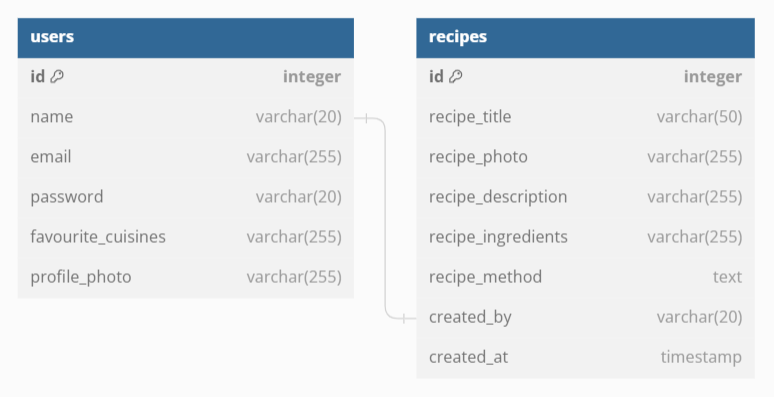
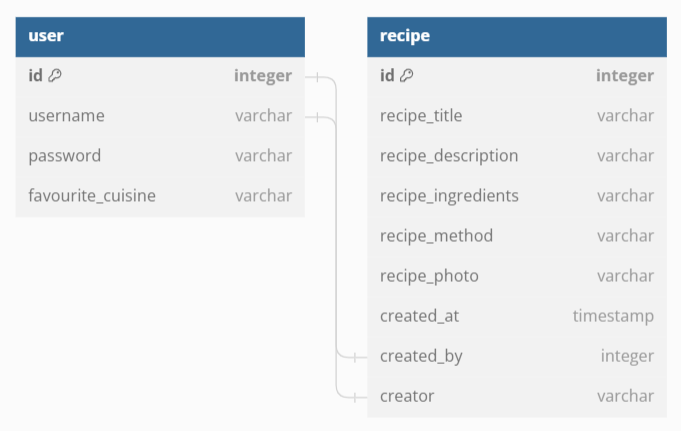
admin privileges updated, README updated with screenshots of site features

diff --git a/foodiefix/templates/recipe.html b/foodiefix/templates/recipe.html
@@ -20,7 +20,7 @@
     </div>
 </div>
 
-{% if recipe.created_by == current_user.id %}
+{% if recipe.created_by == current_user.id or current_user.username == 'admin' %}
 <div class="row">
     <div class="col s12 m6 l6">
         <div class="card-action">

diff --git a/foodiefix/routes.py b/foodiefix/routes.py
@@ -30,7 +30,7 @@ def register():
         # log the new user in
         login_user(user)
         flash("Registration Successful!")
-        return redirect(url_for("my_recipes", username=session["user"]))
+        return redirect(url_for("my_recipes"))
 
     return render_template("register.html")
 
@@ -44,7 +44,7 @@ def login():
         if existing_user and check_password_hash(existing_user.password, request.form.get("password")):
             login_user(existing_user)
             flash("Login Successful!")
-            return redirect(url_for("my_recipes", username=session["user"]))
+            return redirect(url_for("my_recipes"))
         else:
             flash("Incorrect Username and/or Password")
             return redirect(url_for("login"))
@@ -78,35 +78,37 @@ def account():
 
 @app.route("/add_recipe", methods=["GET", "POST"])
 def add_recipe():
-    if "user" not in session:
+    if current_user.is_authenticated:
+
+        if request.method == "POST":
+            recipe = Recipe(
+                recipe_title=request.form.get("recipe_title"),
+                recipe_description=request.form.get("recipe_description"),
+                recipe_ingredients=request.form.get("recipe_ingredients"),
+                recipe_method=request.form.get("recipe_method"),
+                recipe_photo=request.form.get("recipe_photo"),
+                created_at=request.form.get("created_at"),
+                created_by=current_user.id
+            )
+
+            def is_valid_url(url):
+                parsed_url = urlparse(url)
+                return bool(parsed_url.scheme and parsed_url.netloc)
+
+            url = recipe.recipe_photo
+            print("Valid URL!" if is_valid_url(url) else "Invalid URL!")
+            if is_valid_url(url) or url == "":
+                db.session.add(recipe)
+                db.session.commit()
+            else:
+                flash("Invalid photo URL!")
+                return redirect(url_for("my_recipes"))
+            return redirect(url_for("my_recipes"))
+        return render_template("add_recipe.html")
+    
+    else:
         flash("You must be logged in to add recipes")
         return redirect(url_for("home"))
-
-    if request.method == "POST":
-        recipe = Recipe(
-            recipe_title=request.form.get("recipe_title"),
-            recipe_description=request.form.get("recipe_description"),
-            recipe_ingredients=request.form.get("recipe_ingredients"),
-            recipe_method=request.form.get("recipe_method"),
-            recipe_photo=request.form.get("recipe_photo"),
-            created_at=request.form.get("created_at"),
-            created_by=current_user.id
-        )
-
-        def is_valid_url(url):
-            parsed_url = urlparse(url)
-            return bool(parsed_url.scheme and parsed_url.netloc)
-
-        url = recipe.recipe_photo
-        print("Valid URL!" if is_valid_url(url) else "Invalid URL!")
-        if is_valid_url(url) or url == "":
-            db.session.add(recipe)
-            db.session.commit()
-        else:
-            flash("Invalid photo URL!")
-            return redirect(url_for("my_recipes"))
-        return redirect(url_for("my_recipes"))
-    return render_template("add_recipe.html")
 
 
 @app.route("/view_recipe/<int:recipe_id>")
@@ -118,7 +120,7 @@ def view_recipe(recipe_id):
 @app.route("/edit_recipe/<int:recipe_id>", methods=["GET", "POST"])
 def edit_recipe(recipe_id):
     recipe = Recipe.query.get_or_404(recipe_id)
-    if recipe.created_by == current_user.id:
+    if recipe.created_by == current_user.id or current_user.username == 'admin':
         if request.method == "POST":
             recipe.recipe_title = request.form.get("recipe_title")
             recipe.recipe_description = request.form.get("recipe_description")
@@ -151,7 +153,7 @@ def edit_recipe(recipe_id):
 @app.route("/delete_recipe/<int:recipe_id>")
 def delete_recipe(recipe_id):
     recipe = Recipe.query.get_or_404(recipe_id)
-    if recipe.created_by == current_user.id:
+    if recipe.created_by == current_user.id or current_user.username == 'admin':
         db.session.delete(recipe)
         db.session.commit()
         return redirect(url_for("my_recipes"))

diff --git a/README.md b/README.md
@@ -8,8 +8,7 @@ A back end web application that allows users to browse a directory of recipes as
 
 Still to do:
 - Mustard colour is not currently used - Should this be implemented?
-
----
+- Better explanation on forms (tell user to add qty for ingredients and number steps in their method)
 
 ## Table of Contents
 1. [Project Overview](#project-overview)
@@ -40,12 +39,8 @@ Still to do:
     * [Future Improvements](#)
 11. [Credits & Acknowledgements](#credits--acknowledgements)
 
----
-
 ## Project Overview
 Foodie Fix is a back end web application intended to help users find cooking inspiration and add their own recipes to a digital cookbook as well as allow other users to view their recipes. The application consits of four main pages: Home, My Recipes, Recipe and Account. The Home page is a recipe directory showing all recipes added to the application, if a user is not logged in they can only view the directory and do not have access to view individual recipe details, however, if a user is logged in they can view the recipe details. The My Recipes page is individual to each user showing them their profile and the recipes they have added to the application. The Recipe pages are where users can read and follow along with a recipe as well as edit or delete a recipe if they are the creator. The Account page is where users can view, edit and delete their account details.
-
----
 
 ## User Experience
 
@@ -189,17 +184,15 @@ Here is a list of aspirational features that would be nice to include in the app
 - Allow other users to navigate to a creators profile.
 - A site specific 404 page to keep the users on the site even in the event of an error.
 
----
-
 ## Database Planning
 
 SQL will be used in this project to create a relational database system containing the details needed for the application. One of the drawbacks of SQL is that once a database has been created and the fields have been filled with data, it is quite frustrating to edit or add new fields. Therefore, before creating any database functionality, the tables that would be needed for this project were planned out to hopefully prevent a frustrating and time-consuming update later on in the project.
 
-Below is a visualisation of the tables needed for the minimum viable application, this consists of a user table where users information from registration will be stored, and a recipes table where all the information relating to recipes will be stored. Each table has a primary key of id and the foreign key between the two tables is the user.name and recipes.created_by.
+Below is a visualisation of the tables needed for the minimum viable application, this consists of a user table where users information from registration will be stored, and a recipe table where all the information relating to recipes will be stored. Each table has a primary key of id and the foreign keys between the two tables is the user.id which is added to the recipe.created_by and the user.username which is added to the recipe.creator.
 
 ![A relational user table and recipes table](foodiefix/static/img/readme_imgs/db_plan_1.png)
 
-If throughout the project there is time to include any of the aspirational features mentioned in [Hi-Fi Wireframes](#hi-fi-wireframes), this is the visualisation showing the tables that will be needed. The recipes table has now got cuisine and meal fields so the database can be filtered based on those fields, and the reviews table has been added. All three tables have their own primary key of id, the foreign key between users and recipes has remained the same however the user.name is also the foreign key used in the reviews table and to link the recipes and reviews table, the recipe_id becomes the foreign key.
+If throughout the project there is time to include any of the aspirational features mentioned in [Hi-Fi Wireframes](#hi-fi-wireframes), this is the visualisation showing the tables that will be needed. The recipe table has now got cuisine and meal fields so the database can be filtered based on those fields, and the review table has been added. All three tables have their own primary key of id, the foreign keys between user and recipe table has remained the same however the user.name is also the foreign key used in the review table and to link the recipe and review tables, the recipe.id becomes the foreign key.
 
 ![A relational user table, recipes table and reviews table](foodiefix/static/img/readme_imgs/db_plan_2.png)
 
@@ -216,8 +209,6 @@ If throughout the project there is time to include any of the aspirational featu
 ### Version Control
 During the development of the application, GitHub was used to manage versions of each file. Commits were made often and consisted of one feature implementation or edit at a time so it would be easier to roll back to a previous version if required. Compared to milestone projects one and two there were even fewer commits due to a lot of the HTML and CSS being boilerplate code from previous personal projects as well as walkthrough projects from the Code Insitute course content. Similar to milestone project two, I was more diligant with the commits being made since Python was also a steep learning curve, meaning I could rollback a feature that wasn't working without it impacting any other features. Throughout the development of the project, I had to roll back my code once whilst trying to get Flask-Login user authetnication working as this was a feature that wasn't covered in the course content, therefore I was relying on external resources meaning some elements of code were missed whilst I was learning this new feature. In total, there were ... commits for this project. Details of the commits can be found here:
 
----
-
 ## Site Development & Features
 
 ### External Links Used Across Site
@@ -229,24 +220,52 @@ Three Google fonts were used throughout the site: Marvel, Nunito and Carme. Deta
 
 ### Base.html
 
+![Alt](foodiefix/static/img/readme_imgs/navbar_large.png)
+
+![Alt](foodiefix/static/img/readme_imgs/footer_large.png)
+
 ### Home Page
+
+![Alt](foodiefix/static/img/readme_imgs/home_large_not_authenticated.png)
+
+![Alt](foodiefix/static/img/readme_imgs/home_large_authenticated.png)
 
 ### Login & Register
 
+![Alt](foodiefix/static/img/readme_imgs/login_large.png)
+
+![Alt](foodiefix/static/img/readme_imgs/register_large.png)
+
 ### My Recipes Page
 
+![Alt](foodiefix/static/img/readme_imgs/my_recipes_large.png)
+
 ### Add & Edit Recipe
+
+![Alt](foodiefix/static/img/readme_imgs/add_recipe_large.png)
+
+![Alt](foodiefix/static/img/readme_imgs/edit_recipe_large.png)
 
 ### Recipe Page
 - Edit/ delete moved under header - Felt more fitting and would actually be seen
 - Image & header in same row on larger screens - Image was very large and took up unecessary amount of space, also the original layout was very simple and boring.
 
+![Alt](foodiefix/static/img/readme_imgs/recipe_large.png)
+
 ### Account Page
 - Profile photo removed - Seemed unecessary
 
+![Alt](foodiefix/static/img/readme_imgs/account_large.png)
+
 ### Edit Account
 
+![Alt](foodiefix/static/img/readme_imgs/edit_account_large.png)
+
 ### Delete Modals
+
+![Alt](foodiefix/static/img/readme_imgs/delete_recipe_large.png)
+
+![Alt](foodiefix/static/img/readme_imgs/delete_account_large.png)
 
 ---
 
